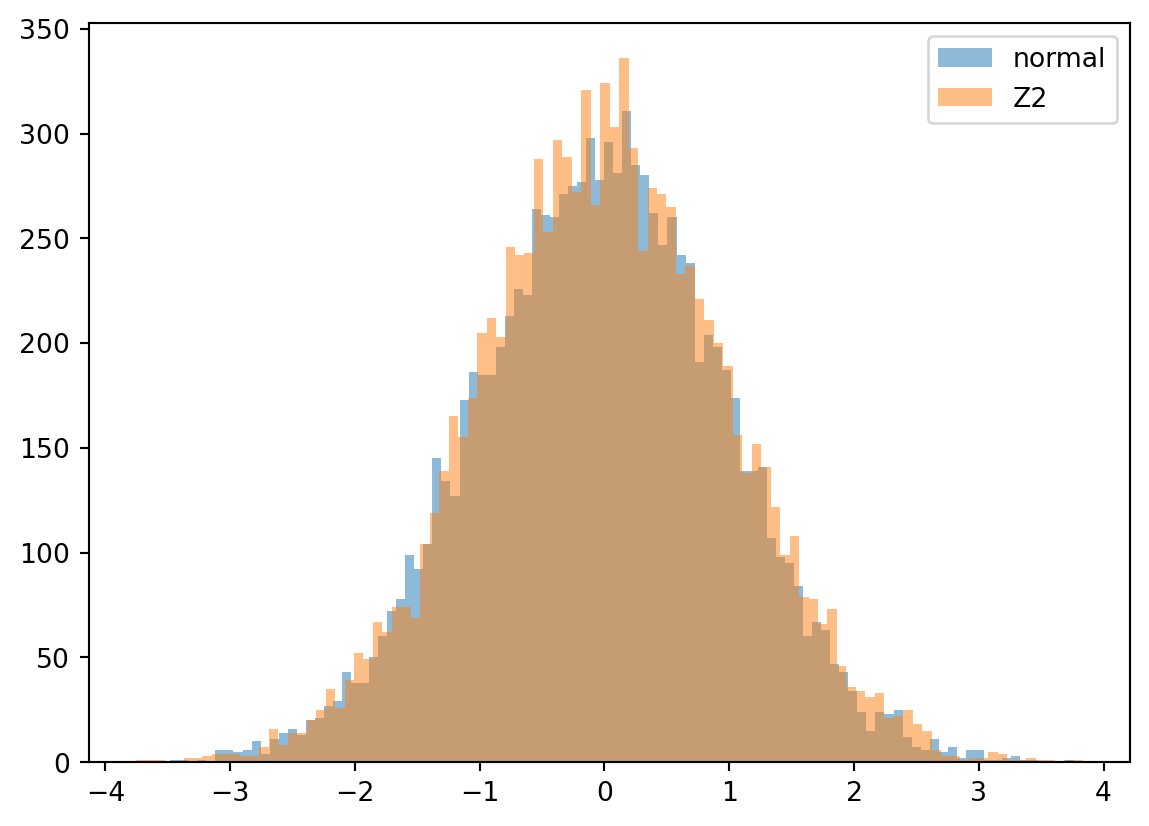
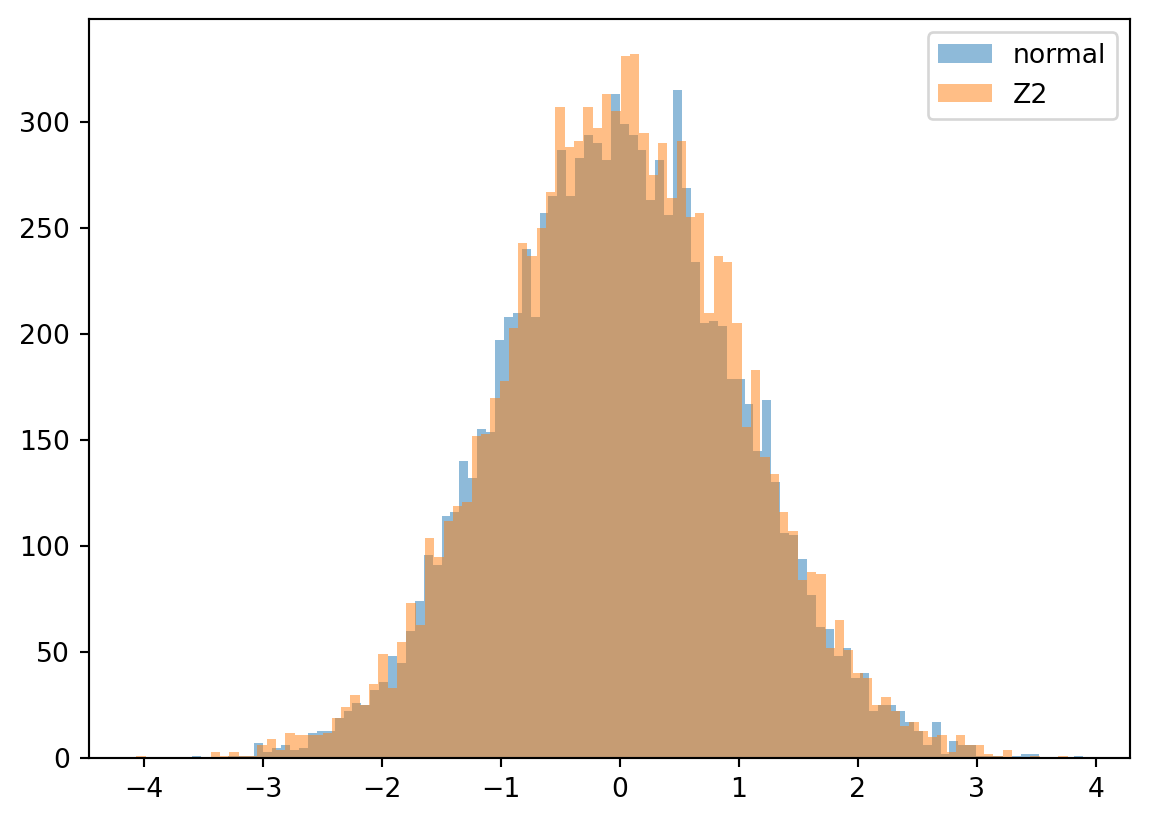
Built site for gh-pages

diff --git a/FCSC/ch2.html b/FCSC/ch2.html
@@ -238,6 +238,7 @@ code span.wa { color: #60a0b0; font-weight: bold; font-style: italic; } /* Warni
   <li><a href="#sum-of-exponentials-is-gamma" id="toc-sum-of-exponentials-is-gamma">2.2 Sum of Exponentials is Gamma</a></li>
   <li><a href="#why-sqrt2-pi" id="toc-why-sqrt2-pi">2.3 Why <span class="math inline">\(\sqrt{2 \pi}\)</span>?</a></li>
   <li><a href="#box-muller" id="toc-box-muller">2.4 Box-Muller</a></li>
+  <li><a href="#marginally-gaussian-but-not-jointly-gaussian." id="toc-marginally-gaussian-but-not-jointly-gaussian.">2.5 Marginally Gaussian but not Jointly Gaussian.</a></li>
   </ul></li>
   </ul>
 </nav>
@@ -274,11 +275,11 @@ Z_2 = \sqrt{-2\log(U_1)} \sin(2 \pi U_2).
 <span id="cb2-2"><a href="#cb2-2" aria-hidden="true" tabindex="-1"></a>plt.hist(Z1, bins<span class="op">=</span>bins, label<span class="op">=</span><span class="st">'Z1'</span>, alpha<span class="op">=</span><span class="fl">0.5</span>)</span>
 <span id="cb2-3"><a href="#cb2-3" aria-hidden="true" tabindex="-1"></a>plt.legend(loc<span class="op">=</span><span class="st">'upper right'</span>)</span>
 <span id="cb2-4"><a href="#cb2-4" aria-hidden="true" tabindex="-1"></a>plt.plot()</span></code><button title="Copy to Clipboard" class="code-copy-button"><i class="bi"></i></button></pre></div>
-<div class="cell-output cell-output-display" data-execution_count="2">
+<div class="cell-output cell-output-display" data-execution_count="115">
 <pre><code>[]</code></pre>
 </div>
 <div class="cell-output cell-output-display">
-<p><img src="ch2_files/figure-html/cell-3-output-2.png" width="575" height="411"></p>
+<p><img src="ch2_files/figure-html/cell-3-output-2.png" width="575" height="415"></p>
 </div>
 </div>
 <div class="cell" data-execution_count="3">
@@ -286,17 +287,17 @@ Z_2 = \sqrt{-2\log(U_1)} \sin(2 \pi U_2).
 <span id="cb4-2"><a href="#cb4-2" aria-hidden="true" tabindex="-1"></a>plt.hist(Z2, bins<span class="op">=</span>bins, label<span class="op">=</span><span class="st">'Z2'</span>, alpha<span class="op">=</span><span class="fl">0.5</span>)</span>
 <span id="cb4-3"><a href="#cb4-3" aria-hidden="true" tabindex="-1"></a>plt.legend(loc<span class="op">=</span><span class="st">'upper right'</span>)</span>
 <span id="cb4-4"><a href="#cb4-4" aria-hidden="true" tabindex="-1"></a>plt.plot()</span></code><button title="Copy to Clipboard" class="code-copy-button"><i class="bi"></i></button></pre></div>
-<div class="cell-output cell-output-display" data-execution_count="3">
+<div class="cell-output cell-output-display" data-execution_count="116">
 <pre><code>[]</code></pre>
 </div>
 <div class="cell-output cell-output-display">
-<p><img src="ch2_files/figure-html/cell-4-output-2.png" width="575" height="413"></p>
+<p><img src="ch2_files/figure-html/cell-4-output-2.png" width="575" height="411"></p>
 </div>
 </div>
 <div class="cell" data-execution_count="4">
 <div class="sourceCode cell-code" id="cb6"><pre class="sourceCode python code-with-copy"><code class="sourceCode python"><span id="cb6-1"><a href="#cb6-1" aria-hidden="true" tabindex="-1"></a>plt.hist2d(Z1, Z2, bins<span class="op">=</span>bins, density<span class="op">=</span><span class="va">True</span>)</span>
 <span id="cb6-2"><a href="#cb6-2" aria-hidden="true" tabindex="-1"></a>plt.plot()</span></code><button title="Copy to Clipboard" class="code-copy-button"><i class="bi"></i></button></pre></div>
-<div class="cell-output cell-output-display" data-execution_count="4">
+<div class="cell-output cell-output-display" data-execution_count="117">
 <pre><code>[]</code></pre>
 </div>
 <div class="cell-output cell-output-display">
@@ -446,6 +447,68 @@ e^{-r^2/2} &amp; \text{for } 0 \leq e^{-r^2/2} &lt; 1, \\
 \end{align}
 \]</span></p>
 <p>Obviously, <span class="math inline">\(\Theta \sim U(0, 2 \pi)\)</span>. Therefore, <span class="math inline">\((Z_1, Z_2)\)</span> has the same distribution as <span class="math inline">\((X, Y)\)</span> where <span class="math inline">\(X, Y\)</span> are IID standard Gaussians.</p>
+</section>
+<section id="marginally-gaussian-but-not-jointly-gaussian." class="level2">
+<h2 class="anchored" data-anchor-id="marginally-gaussian-but-not-jointly-gaussian.">2.5 Marginally Gaussian but not Jointly Gaussian.</h2>
+<p>Let <span class="math inline">\(X\)</span> be a standard Gaussian and define</p>
+<p><span class="math display">\[
+Y = \begin{cases}
+X &amp; \text{if } |X| \leq 1, \\
+-X &amp; \text{otherwise.}
+\end{cases}
+\]</span></p>
+<p><span class="math inline">\(Y\)</span> is also a standard Gaussian.</p>
+<p>Proof:</p>
+<p>Let</p>
+<p><span class="math display">\[
+g(x) = \begin{cases}
+x &amp; \text{if } |x| \leq 1, \\
+-x &amp; \text{otherwise.}
+\end{cases}
+\]</span></p>
+<p>Then the MGF of <span class="math inline">\(Y\)</span> can be expressed (using LOTUS) as</p>
+<p><span class="math display">\[
+\begin{align}
+\sqrt{2 \pi} \E(e^{tY}) &amp;= \sqrt{2 \pi} \E(e^tg(X)) \\
+&amp;= \int_{-\infty}^{\infty} e^{tg(x)} e^{-x^2/2} dx \\
+&amp;= \int_{-1}^{1} e^{t x} e^{-x^2/2} dx + (\int_{-\infty}^{-1} + \int_1^{\infty}) e^{-t x} e^{-x^2/2} dx \\
+&amp;= \int_{-1}^{1} e^{t x} e^{-x^2/2} dx + (\int_{\infty}^{1} + \int_{-1}^{-\infty}) - e^{t x} e^{-x^2/2} dx \\
+&amp;= \int_{-1}^{1} e^{t x} e^{-x^2/2} dx + (\int_{1}^{\infty} + \int_{-\infty}^{-1} e^{t x} e^{-x^2/2} dx \\
+&amp;= \int_{-\infty}^{\infty} e^{tx} e^{-x^2/2} dx \\
+&amp;= \sqrt{2 \pi} \E(e^{tY}).
+\end{align}
+\]</span></p>
+<p>Therefore, <span class="math inline">\(Y\)</span> and <span class="math inline">\(X\)</span> are indentically distributed. They are definitely not independent as <span class="math inline">\(Y\)</span> is a function of <span class="math inline">\(X\)</span> and so we have no right to expect that <span class="math inline">\(X + Y\)</span> is also Gaussian.</p>
+<p>To see that <span class="math inline">\(X +Y\)</span> is not Gaussian, note that its range is in <span class="math inline">\([-2,2]\)</span>; there are lower bounds on the tail of Gaussian tails which are non-zero.</p>
+<div class="cell" data-execution_count="5">
+<div class="sourceCode cell-code" id="cb8"><pre class="sourceCode python code-with-copy"><code class="sourceCode python"><span id="cb8-1"><a href="#cb8-1" aria-hidden="true" tabindex="-1"></a>X <span class="op">=</span> rg.normal(<span class="dv">0</span>,<span class="dv">1</span>, N)</span>
+<span id="cb8-2"><a href="#cb8-2" aria-hidden="true" tabindex="-1"></a>Y <span class="op">=</span> [x <span class="cf">if</span> np.<span class="bu">abs</span>(x) <span class="op">&lt;=</span><span class="dv">1</span> <span class="cf">else</span> <span class="op">-</span>x <span class="cf">for</span> x <span class="kw">in</span> X]</span>
+<span id="cb8-3"><a href="#cb8-3" aria-hidden="true" tabindex="-1"></a>plt.hist(X<span class="op">+</span>Y, bins<span class="op">=</span>bins, label<span class="op">=</span><span class="st">'X + Y'</span>, alpha<span class="op">=</span><span class="fl">0.5</span>)</span>
+<span id="cb8-4"><a href="#cb8-4" aria-hidden="true" tabindex="-1"></a>plt.hist(X, bins, label<span class="op">=</span><span class="st">'X'</span>, alpha<span class="op">=</span><span class="fl">0.5</span>)</span>
+<span id="cb8-5"><a href="#cb8-5" aria-hidden="true" tabindex="-1"></a>plt.hist(Y, bins, label<span class="op">=</span><span class="st">'Y'</span>, alpha<span class="op">=</span><span class="fl">0.5</span>)</span>
+<span id="cb8-6"><a href="#cb8-6" aria-hidden="true" tabindex="-1"></a>plt.legend(loc<span class="op">=</span><span class="st">'upper right'</span>)</span>
+<span id="cb8-7"><a href="#cb8-7" aria-hidden="true" tabindex="-1"></a>plt.plot()</span></code><button title="Copy to Clipboard" class="code-copy-button"><i class="bi"></i></button></pre></div>
+<div class="cell-output cell-output-display" data-execution_count="118">
+<pre><code>[]</code></pre>
+</div>
+<div class="cell-output cell-output-display">
+<p><img src="ch2_files/figure-html/cell-6-output-2.png" width="584" height="411"></p>
+</div>
+</div>
+<div class="cell" data-execution_count="6">
+<div class="sourceCode cell-code" id="cb10"><pre class="sourceCode python code-with-copy"><code class="sourceCode python"><span id="cb10-1"><a href="#cb10-1" aria-hidden="true" tabindex="-1"></a>data<span class="op">=</span>[X<span class="op">+</span>Y, X, Y]</span>
+<span id="cb10-2"><a href="#cb10-2" aria-hidden="true" tabindex="-1"></a>ax <span class="op">=</span> plt.subplot()</span>
+<span id="cb10-3"><a href="#cb10-3" aria-hidden="true" tabindex="-1"></a>ax.violinplot(data, <span class="bu">range</span>(<span class="bu">len</span>(data)), vert<span class="op">=</span><span class="va">False</span>)</span>
+<span id="cb10-4"><a href="#cb10-4" aria-hidden="true" tabindex="-1"></a>ax.set_yticks(<span class="bu">range</span>(<span class="bu">len</span>(data)))</span>
+<span id="cb10-5"><a href="#cb10-5" aria-hidden="true" tabindex="-1"></a>ax.set_yticklabels([<span class="st">'X+Y'</span>, <span class="st">'X'</span>, <span class="st">'Y'</span>])</span>
+<span id="cb10-6"><a href="#cb10-6" aria-hidden="true" tabindex="-1"></a>plt.plot()</span></code><button title="Copy to Clipboard" class="code-copy-button"><i class="bi"></i></button></pre></div>
+<div class="cell-output cell-output-display" data-execution_count="119">
+<pre><code>[]</code></pre>
+</div>
+<div class="cell-output cell-output-display">
+<p><img src="ch2_files/figure-html/cell-7-output-2.png" width="579" height="411"></p>
+</div>
+</div>
 
 
 </section>

diff --git a/index.html b/index.html
@@ -192,7 +192,7 @@ ul.task-list li input[type="checkbox"] {
 
 <div class="quarto-listing quarto-listing-container-default" id="listing-listing">
 <div class="list quarto-listing-default">
-<div class="quarto-post image-right" data-index="0" data-listing-file-modified-sort="1672429981637" data-listing-reading-time-sort="3.305">
+<div class="quarto-post image-right" data-index="0" data-listing-file-modified-sort="1672438377029" data-listing-reading-time-sort="4.37">
 <div class="body">
 <a href="./FCSC/ch2.html">
 <h3 class="no-anchor listing-title">
